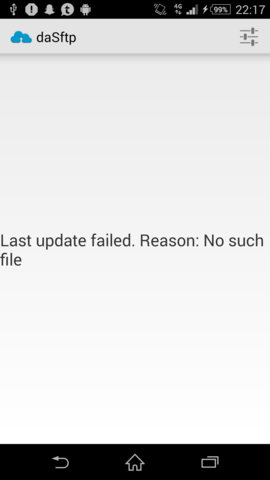
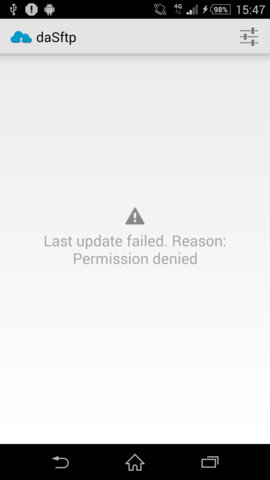
New features need to remove todos and update pictures

diff --git a/index.html b/index.html
@@ -40,15 +40,14 @@
 <li>Link in clipboard</li>
 <li>Customizable tags before added to clipboard</li>
 <li>Simple error handling</li>
+<li>List all uploads with thumbnails for later reference</li>
 </ul><p>Last known error is shown in main screen.</p>
 
 <h2>
 <a name="todos" class="anchor" href="#todos"><span class="octicon octicon-link"></span></a>TODOs</h2>
 
 <ul>
-<li>Home should link to shared pictures with thumbnail</li>
 <li>Being able to have several sites saved</li>
-<li>Prettier homescreen with failed reason</li>
 </ul><p>Question is how to make it as simple as possible but also user-friendly and how many functions that should be implemented. Not sure if more advanced error handling is needed.</p>
 
 <h2>
